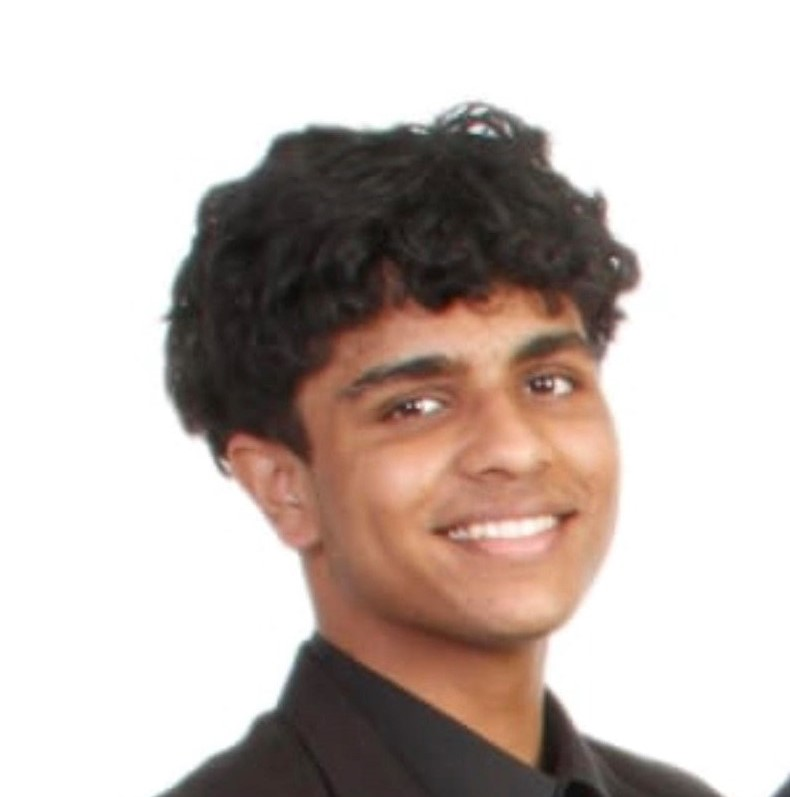
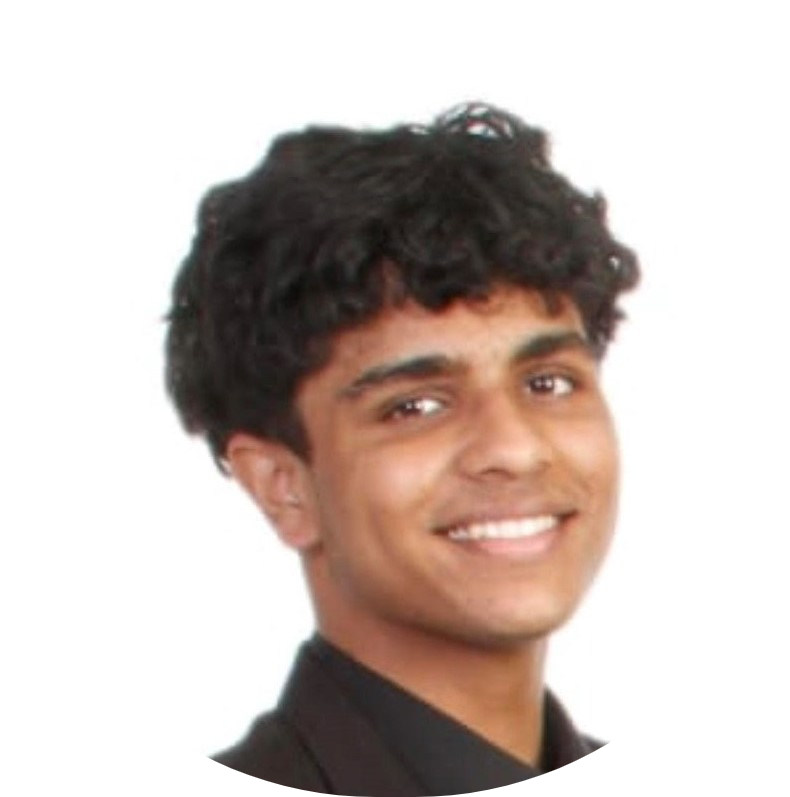
created intro section and adjusted styles

Changed region(s): [[0.5165, 0.9335, 0.9418, 1.0], [0.1823, 0.9335, 0.4557, 1.0], [0.9722, 0.9636, 1.0, 1.0]]

diff --git a/styles.css b/styles.css
@@ -1,17 +1,24 @@
 * {margin:0}
 body {
-    /* background-color: black; */
     display:grid;
     grid-template-columns:6;
     grid-auto-rows: minmax(100, auto);
     font-family: sans-serif;
     grid-template-areas: 
-    "header header header header header header";
+    "header header header header header header"
+    ". main main main main .";
+}
+main {
+    margin:50px 0;
+    grid-area:main;
+    display:flex;
+    flex-wrap:wrap;
+    justify-content:center;
 }
 header {
+    margin:10px 0;
     grid-area:header;
     color:black;
-    /* background-color:white; */
     text-align:center;
     align-self:center;
     display:grid;
@@ -59,6 +66,7 @@ nav li a {
     position:relative;
 }
 .default_a::after{
+    border-radius:10px;
     content: "";
     background: white;
       mix-blend-mode: exclusion;
@@ -73,24 +81,62 @@ nav li a {
       height: calc(100% + 8px);
 }
 a.resume {
-    background-color:#b99e00;
+    background-color:#dab900;
     color:white;
-    border:#b99e00 2px solid;
+    border:#dab900 2px solid;
     border-radius:10px;
 }
 a.resume:hover {
-    color: #b99e00;
+    transition:0.3s;
+    color: #dab900;
     background-color:white;
 }
+section.intro {
+    color:white;
+    text-align:center;
+    font-size:40px;
+    margin:40px auto;
+    align-self:center;
+    margin:50px 50px;
+}
+.wave {
+    font-size:50px;
+}
+.name {
+    color:#dab900;
+    text-transform:uppercase;
+}
+main img {
+    width:395px;
+    height:398.5px;
+}
+.wave {
+    animation-name: wave-animation;  
+    animation-duration: 2.5s;        
+    animation-iteration-count: infinite;  
+    transform-origin: 70% 70%;       
+    display: inline-block;
+  }
+  
+  @keyframes wave-animation {
+      0% { transform: rotate( 0.0deg) }
+     10% { transform: rotate(14.0deg) }  
+     20% { transform: rotate(-8.0deg) }
+     30% { transform: rotate(14.0deg) }
+     40% { transform: rotate(-4.0deg) }
+     50% { transform: rotate(10.0deg) }
+     60% { transform: rotate( 0.0deg) }  
+    100% { transform: rotate( 0.0deg) }
+  }
 
 #particles-js {
         background-image: url(img/black.png);
         background-size:cover;
         height:680px;
         width:1000px;
-        position:absolute;
+        z-index:-50;
+        position:fixed;
         top:0;
         left:0;
-        /* display:flex; */
         width:100%;
 }

diff --git a/index.html b/index.html
@@ -3,7 +3,7 @@
 <head>
     <meta name="viewport" content="width=device-width, initial-scale=1.0">
     <link rel="stylesheet" href="styles.css">
-    <link rel="icon" href="img/Aaron.png" style="border-radius:50%">
+    <link rel="icon" href="img/Aaron.webp">
     <title>Aaron Rajan</title>
 </head>
 <body>
@@ -24,7 +24,10 @@
         </nav>
     </header>
     <main>
-
+        <img src="img/Aaron.png" alt="Aaron">
+        <section class="intro">
+            <p>Hey there! <span class="wave">👋🏽</span> <br> I'm <span class="name">Aaron Rajan</span></p>
+        </section>
     </main>
 
     <!-- particles js file -->
